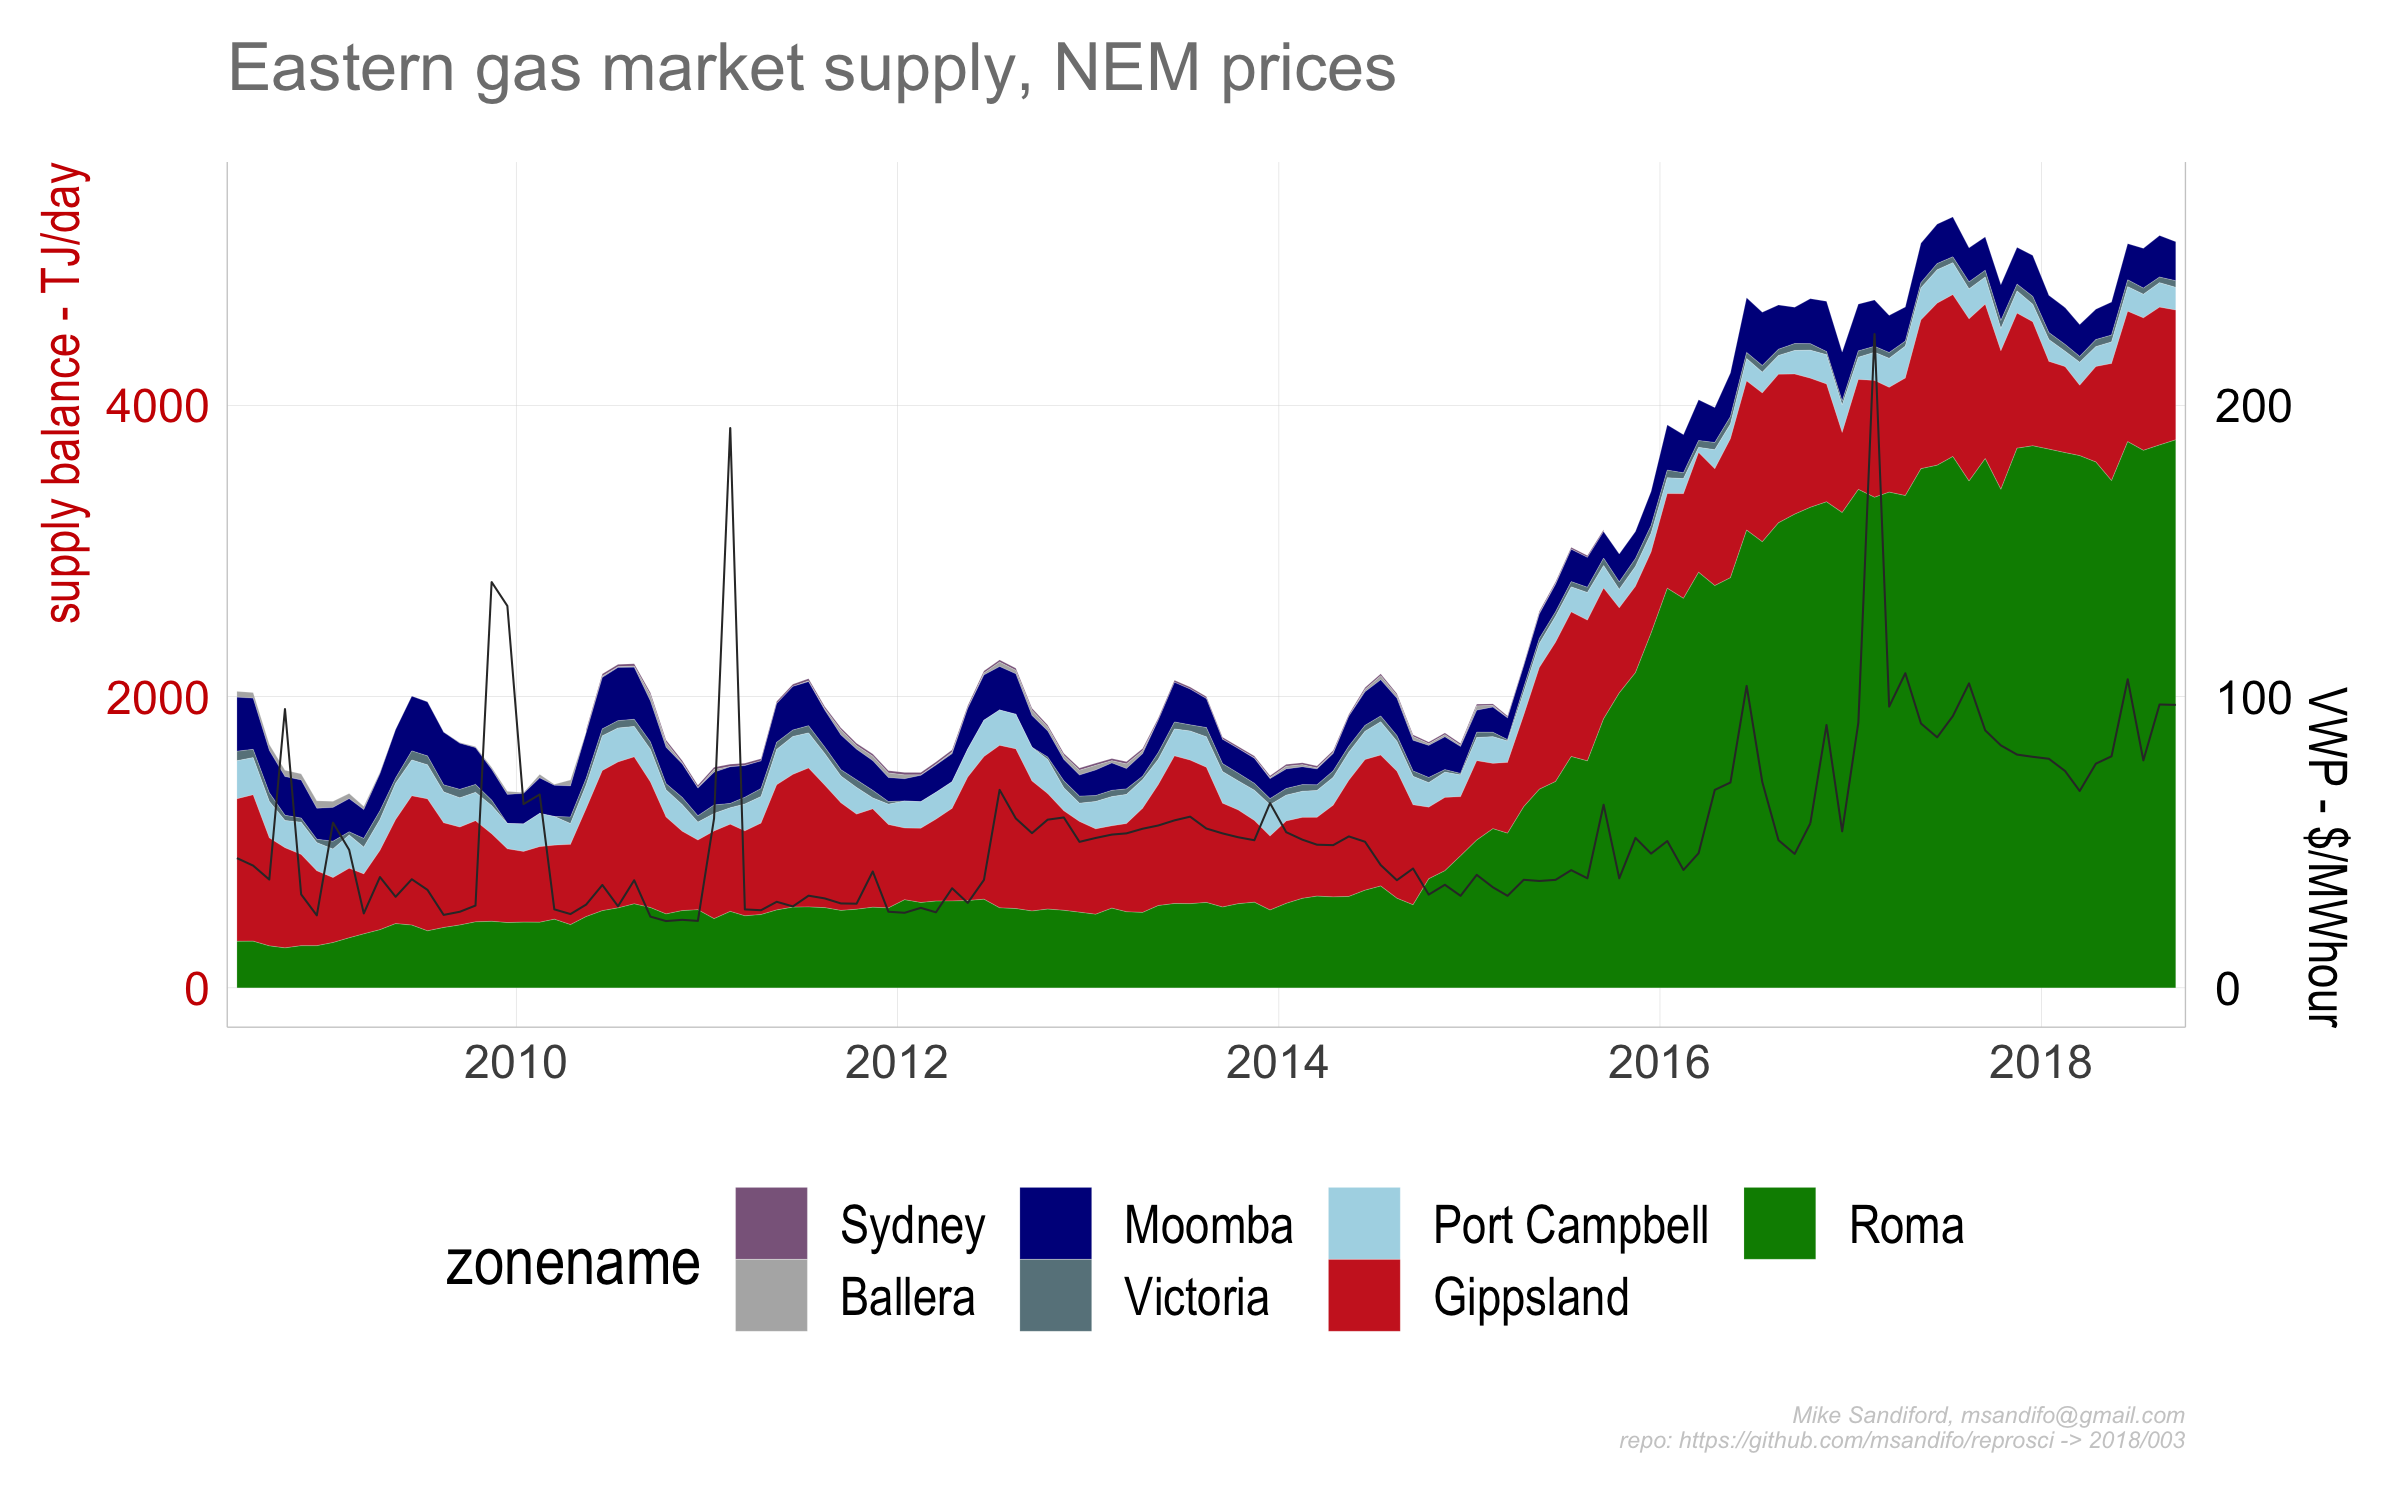
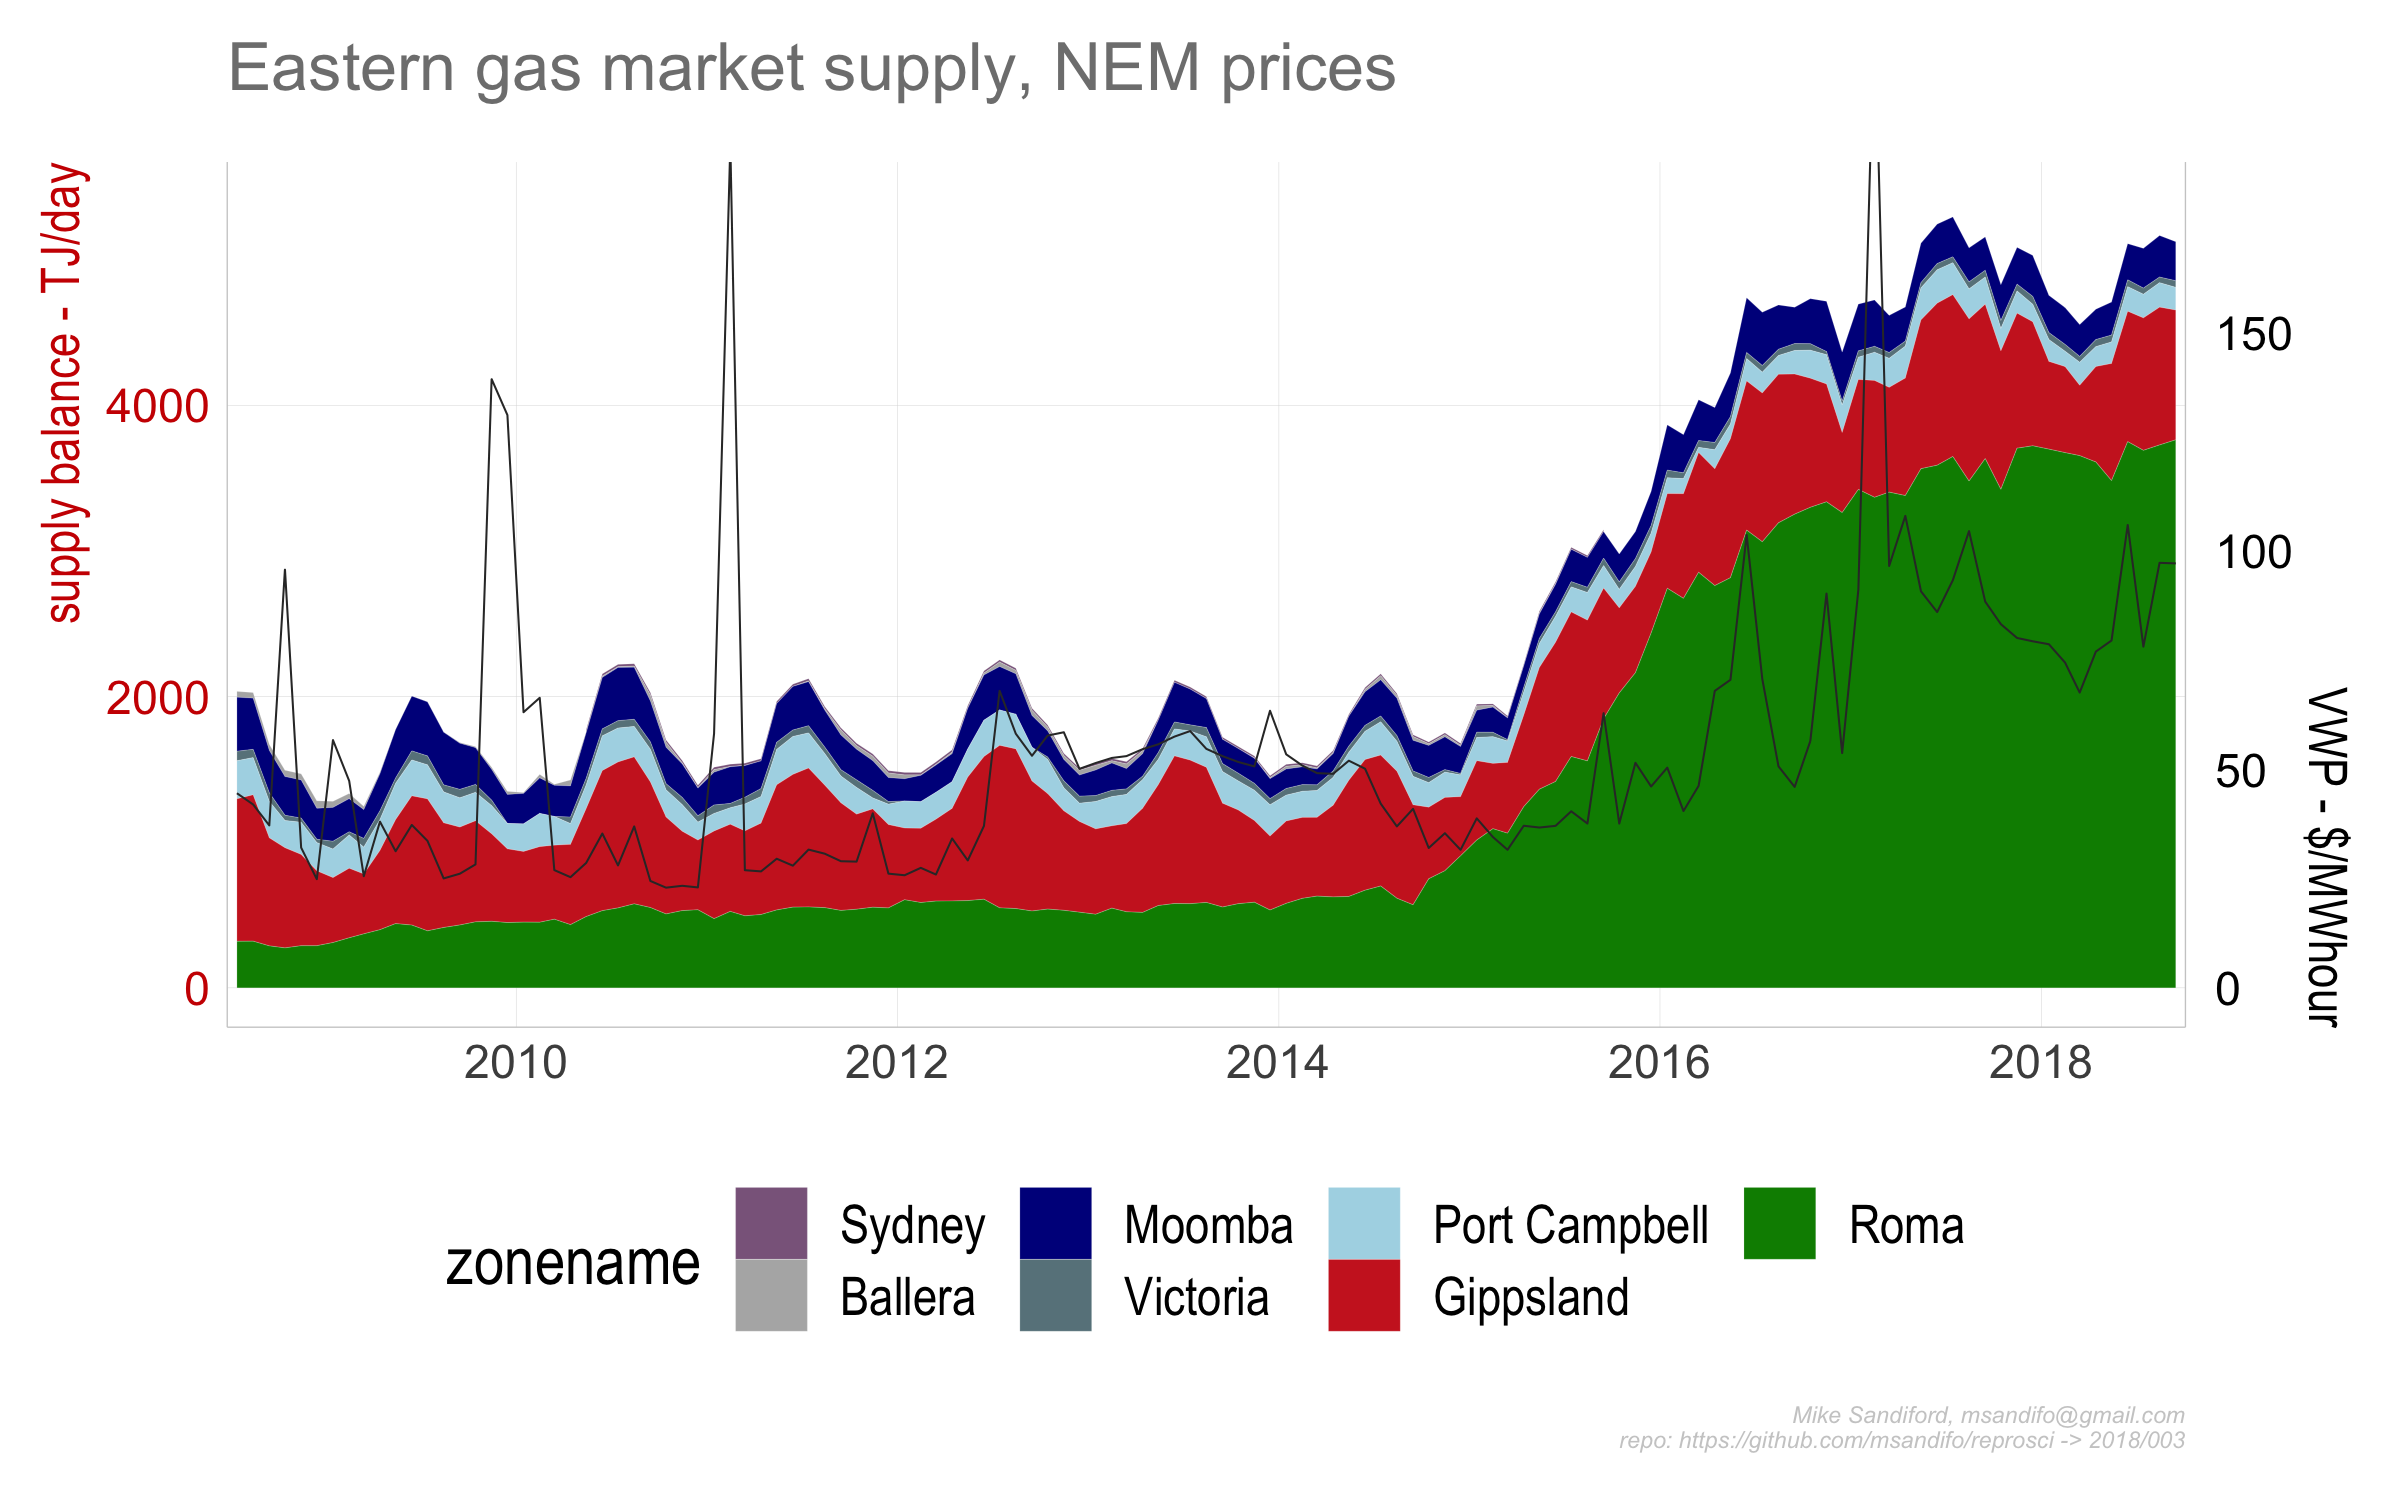
Gladstone LNG 8/11/18

diff --git a/2018/001/Readme.md b/2018/001/Readme.md
@@ -1,4 +1,4 @@
-reprosci001
+reproscir/2018/001
 ================
 
 ## Gladstone LNG
@@ -128,9 +128,9 @@ Note that `reproplan` includes
 The code generates three charts, output to `./figs` directory :
 
 ``` r
-ggsave("./figs/p001_01.png",   p001$p1 ,width=8, height=5) 
-ggsave("./figs/p001_02.png",    p001$p2 ,width=8, height=5) 
-ggsave("./figs/p001_03.png",   p001$p3,width=8, height=5) 
+ggsave("./figs/p001_01.png", p001$p1, width=8, height=5) 
+ggsave("./figs/p001_02.png", p001$p2, width=8, height=5) 
+ggsave("./figs/p001_03.png", p001$p3, width=8, height=5) 
 ```
 
 <img src="./figs/p001_01.png" alt="hist1" align="center" style = "border: none; float: center;" width = "1000px">
@@ -154,3 +154,7 @@ In our drake file, `read_gladstone_ports` is only indirectly called via
 the function `update_gladstone`
 
 ## Errata
+
+  - 8/11/2018 corrected calculation of net and per capita revenue
+    differences (2017, 2015) using VWP (volume weighted (VWP) rather
+    than avearge (RRP) prices.
